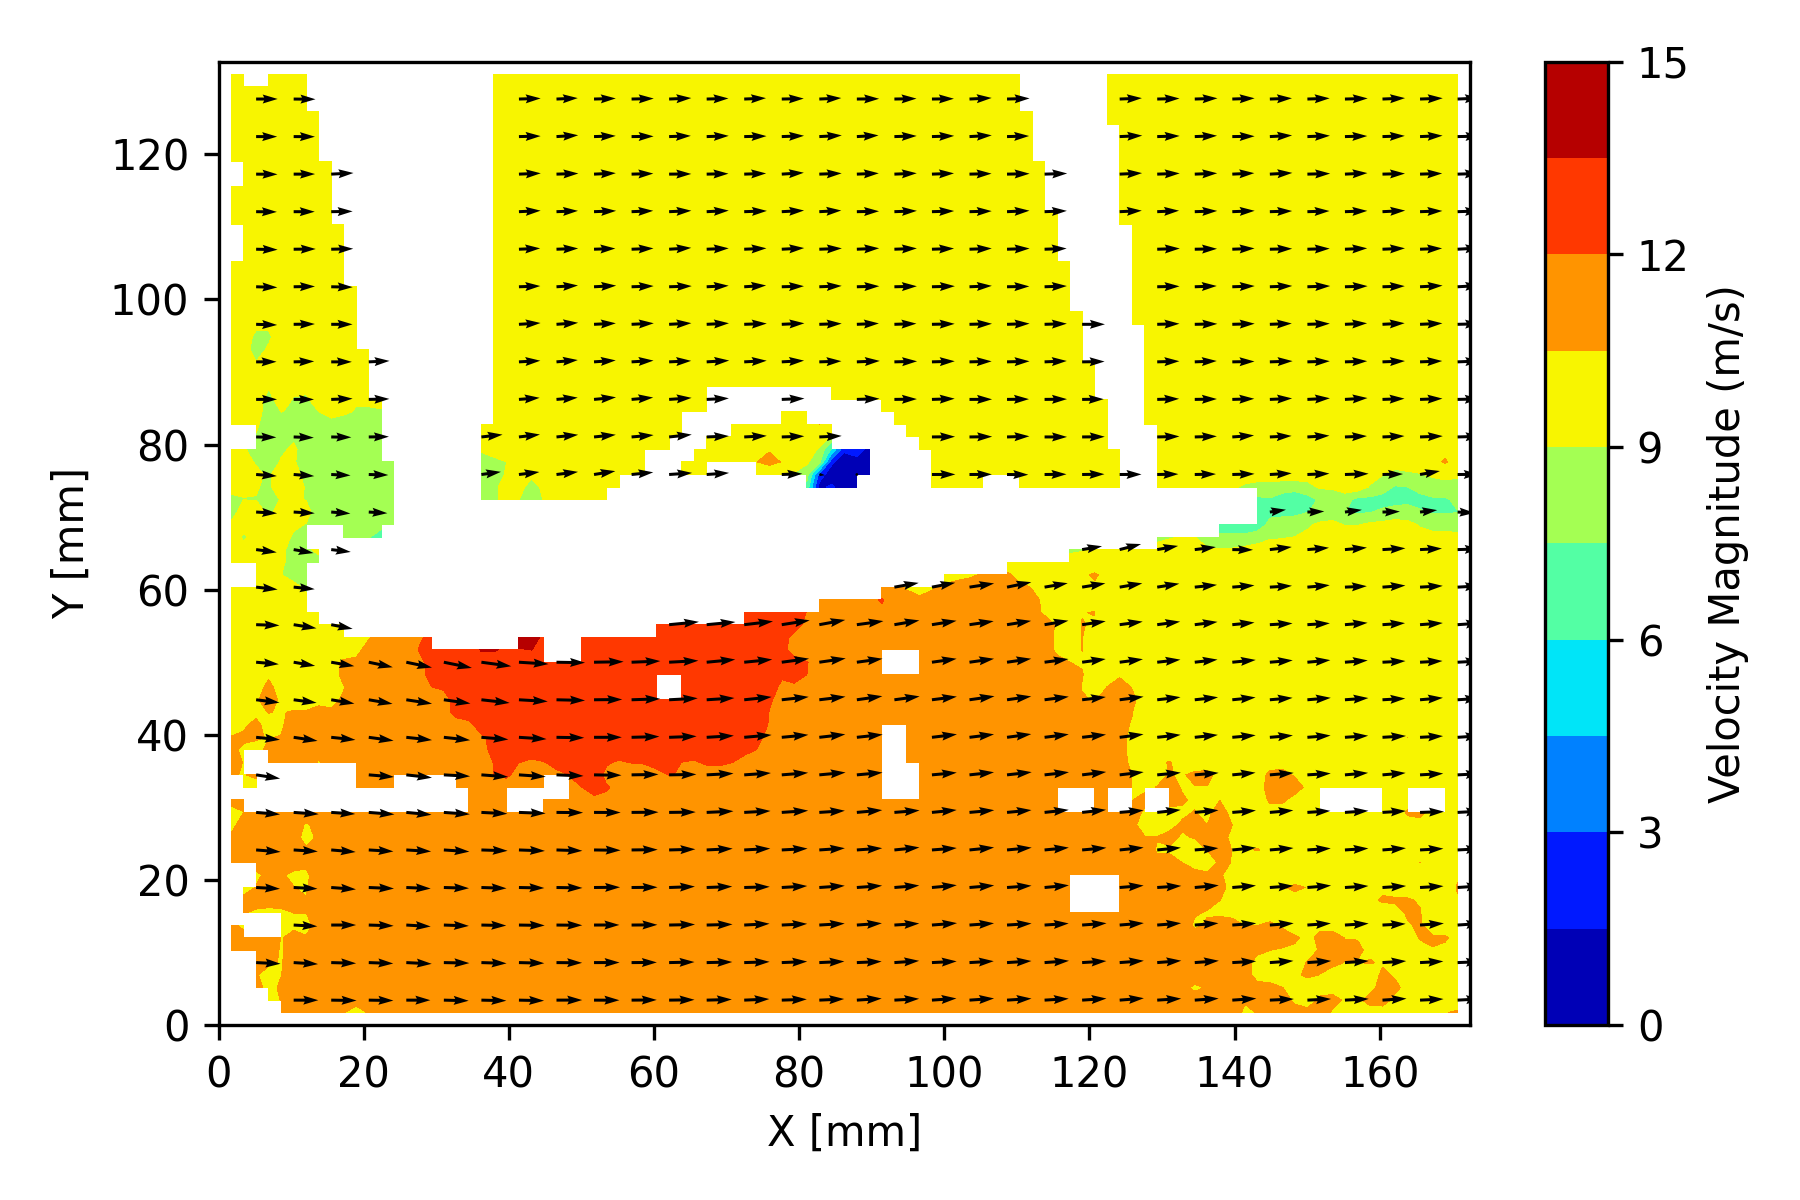
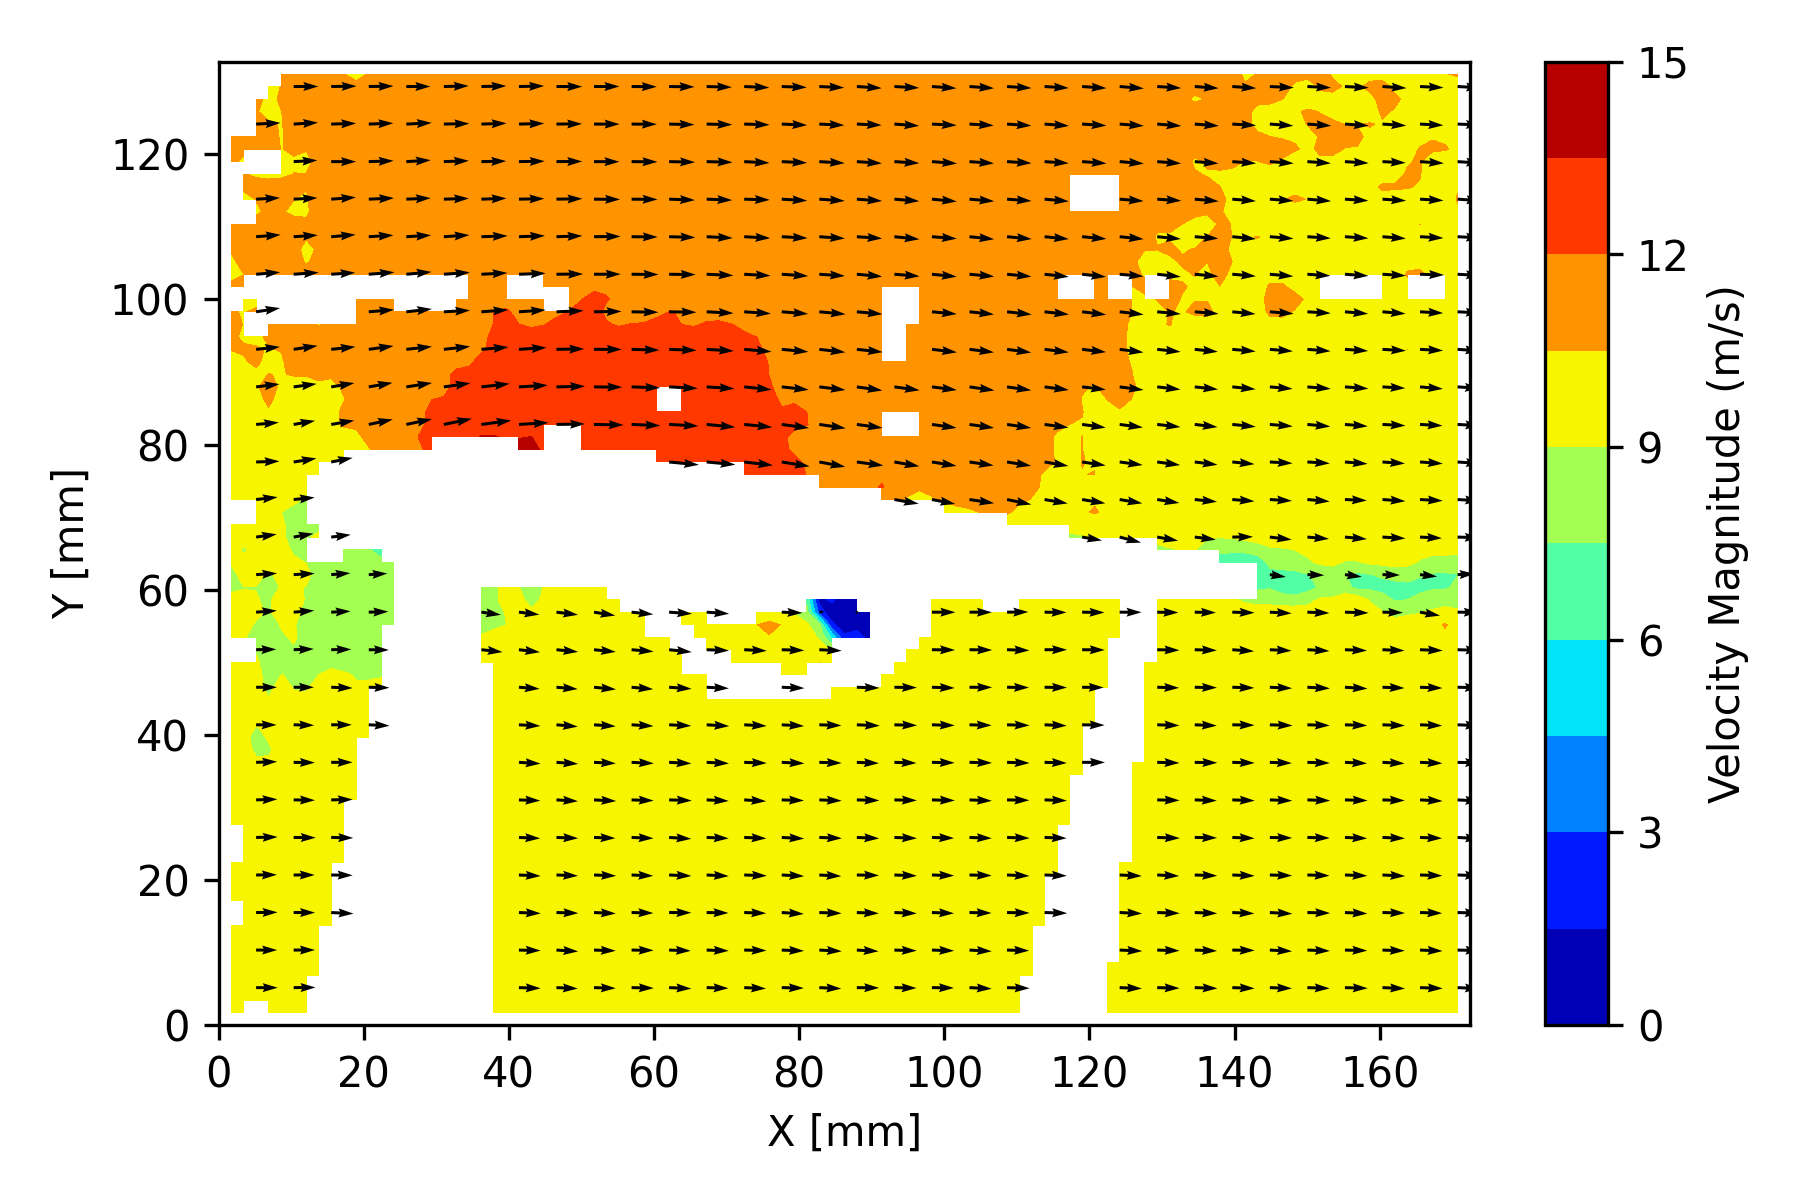
flip figure

diff --git a/piv.py b/piv.py
@@ -832,8 +832,8 @@ for angle in angles:
     
     # Plot the results for the current angle
     plot_results(refX.reshape((rows, cols)), 
-                 refY.reshape((rows, cols)), 
-                 refU, refV, 
+                 refY.reshape((rows, cols))[::-1, :], 
+                 refU, -refV, 
                  file_name=f'figures/piv_results_{angle}_instantaneous.png', step=3)
     
 for angle in angles:
@@ -860,13 +860,16 @@ for angle in angles:
     refV[refValid == 0] = np.nan
     refU = refU.reshape((rows, cols))
     refV = refV.reshape((rows, cols))
+    refX = refX.reshape((rows, cols))
+    refY = refY.reshape((rows, cols))
+    refY = refY[::-1, :]  # Reverse Y-axis for correct orientation
     
     # Calculate the magnitude of the reference velocity
     refMag = np.sqrt(refU**2 + refV**2)
     
     # Plot the results for the current angle
-    plot_results(refX.reshape((rows, cols)), 
-                 refY.reshape((rows, cols)), 
-                 refU, refV, 
+    plot_results(refX, 
+                 refY, 
+                 refU, -refV, 
                  file_name=f'figures/piv_results_{angle}_mean.png', step=3)
     
